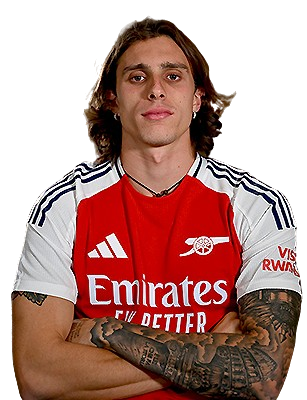
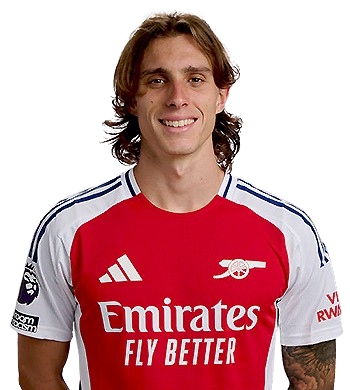
Correções de bugs e novos portraits do Calafiori adicionados

diff --git a/main.js b/main.js
@@ -38,7 +38,7 @@ function openModal(player) {
     modalContainer.innerHTML = `
         <div class="card-player-info">
                 <div class="card-photo">
-                    <img src="imgs/cards-info/${player.PhotoModal}.jpg"/>
+                    <img src="imgs/cards-info/${player.PhotoModal}.JPG"/>
                 </div>
                   <div class="card-mobile">
                     <button>X</button>
